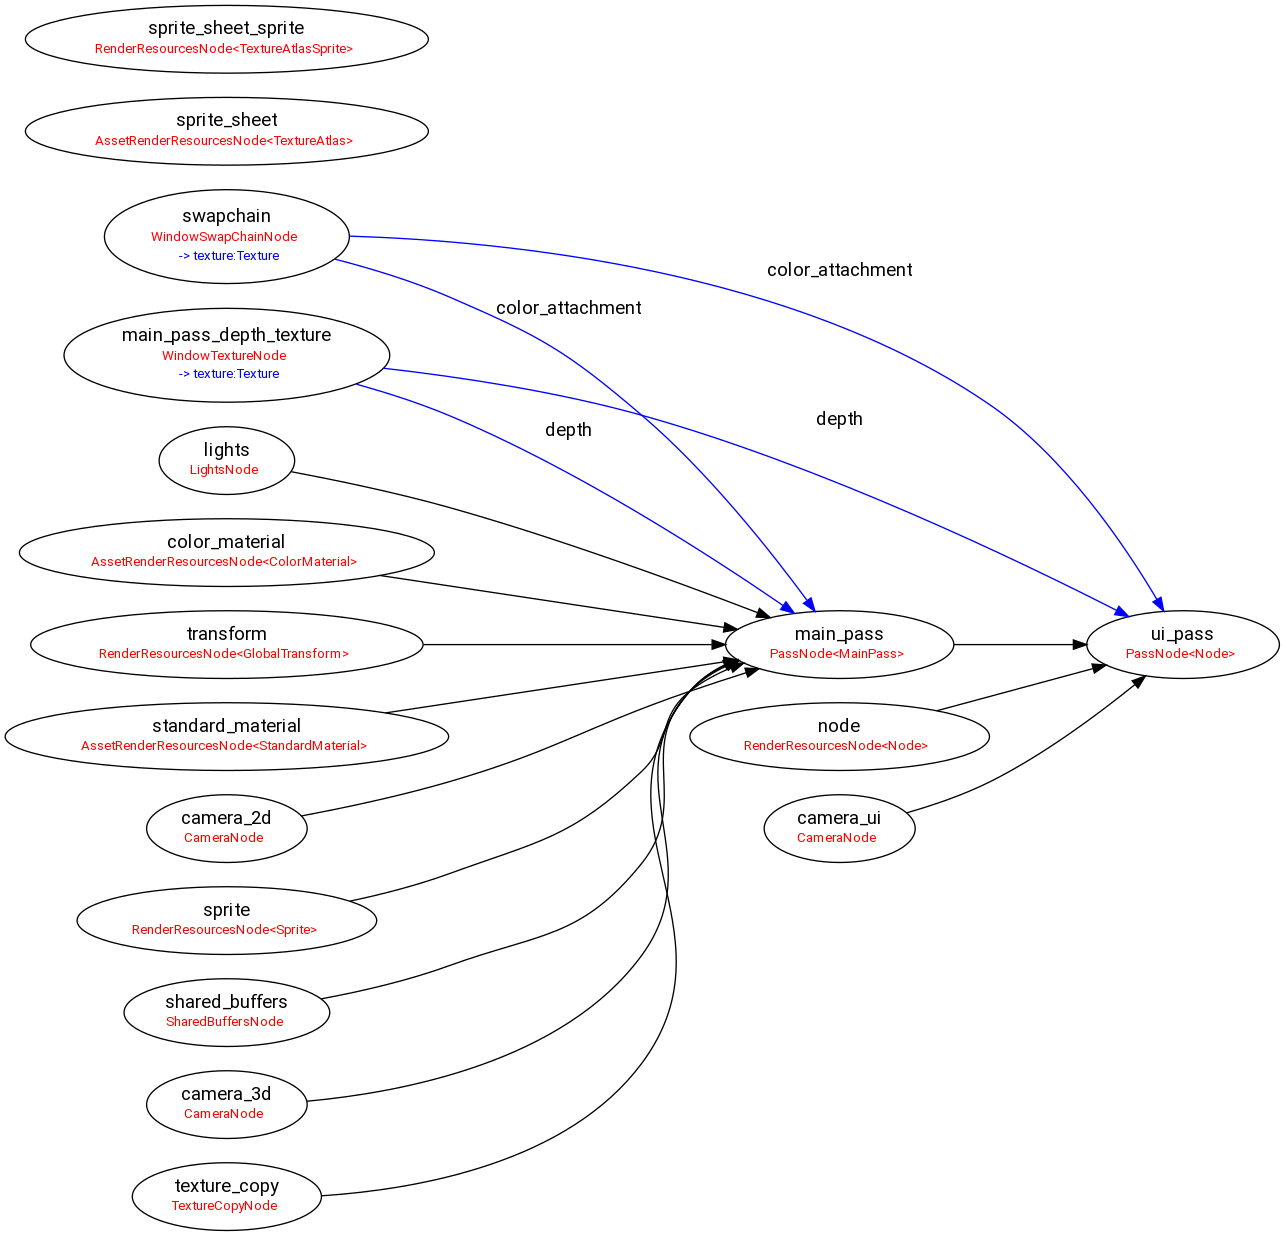
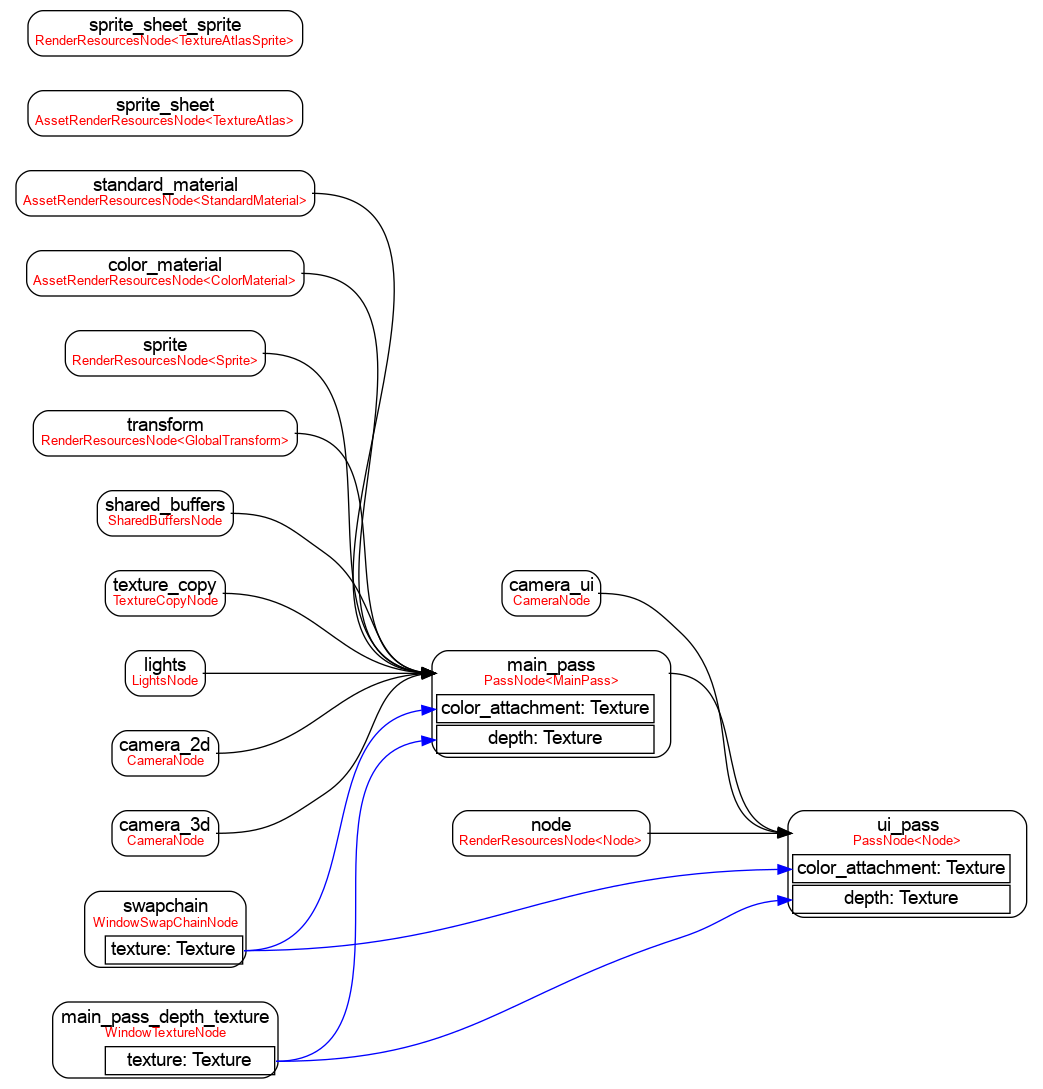
update render_graph.png and use Helvetica

diff --git a/src/render_graph.rs b/src/render_graph.rs
@@ -11,7 +11,7 @@ pub fn render_graph_dot(graph: &RenderGraph) -> String {
 
     // Convert to format fitting GraphViz node id requirements
     let node_id = |id: &NodeId| format!("{}", id.uuid().as_u128());
-    let font = ("fontname", "Roboto");
+    let font = ("fontname", "Helvetica");
     let shape = ("shape", "plaintext");
     let edge_color = ("color", "\"blue\"");
 
